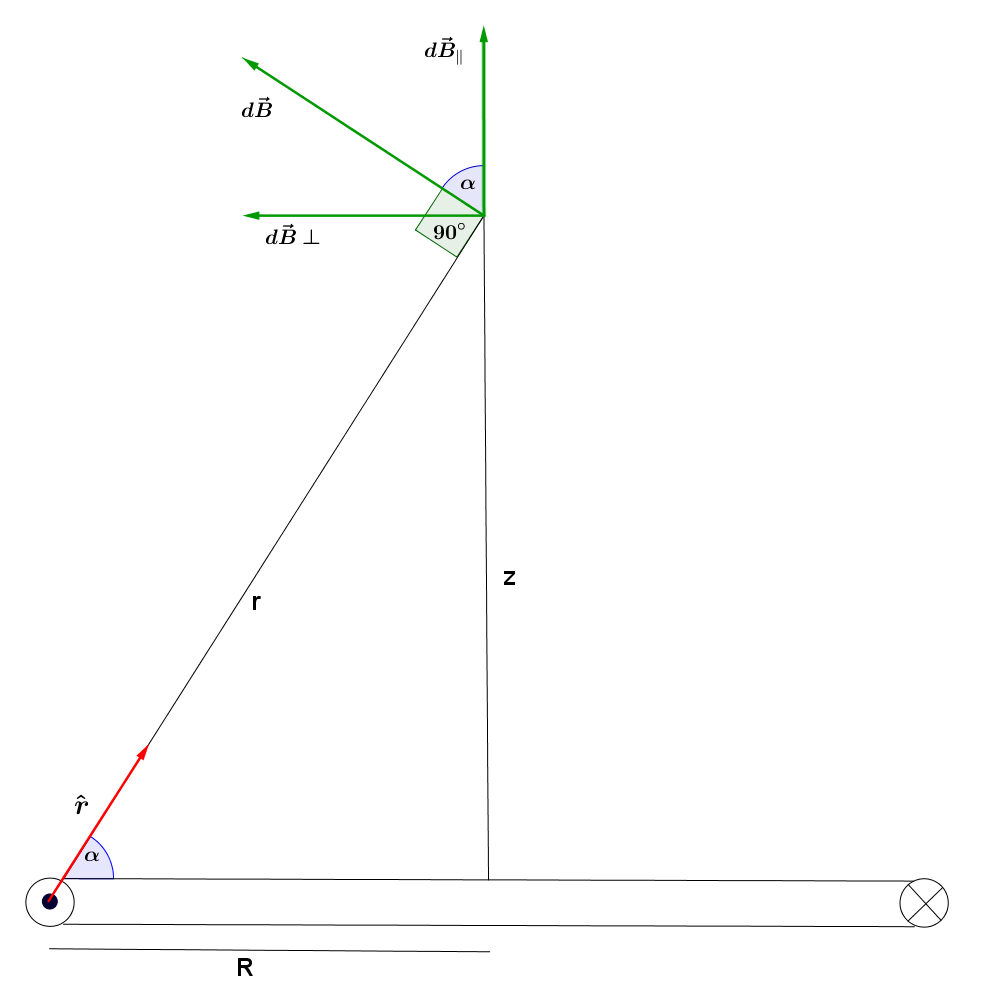
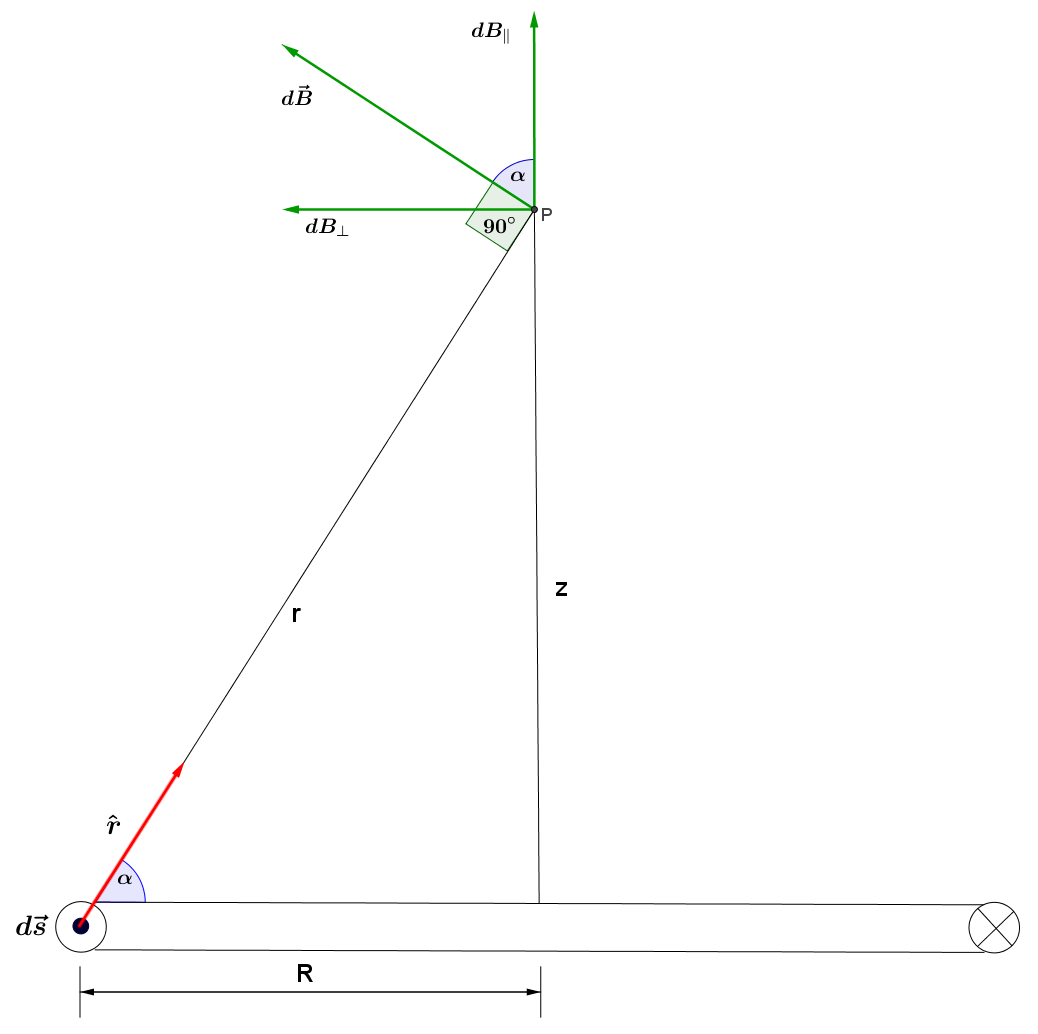
Første del af spoledesign sat ind

diff --git a/section/spoledesign.tex b/section/spoledesign.tex
@@ -2,92 +2,91 @@
 
 \subsection{Dimensionering af spoler}
 
-Systemet består af 3 spoler. 1 stor spole til at vidergive et signal, og 2 mindre spoler med samme areal til at opfange et signal. Dimensioneringen afhænger af størrelserne på spolerne. Der er nogle fysiske pladskrav, som begrænser dimensioneringen. Som udgangspunkt, dimensioneres den store spole først, som skal sende et signal videre. (omformuler blot udkast..)
+For at kunne dimensionere og designe en spole, er det væsentligt at vide hvilket formål spolen skal bruges til. Spolen har mange egenskaber, og i dette projekt vil de blive designet, så de kan bruges som sensorer. Altså en enhed der opfanger eller udsender et analogt signal. 
 
-Figur her!!
+Som beskrevet tidligere, består systemet af i alt 3 spoler. 1 stor spole, som skal stå for at udsende et signal. Herudover 2 mindre identiske spoler, som skal opfange signalerne. For et illustrativt billede af opsætningen se afsnit **.
+
+I den følgende tekst, vil der blive beskrevet hvilke faktorer der er blevet lagt vægt på, samt hvordan nogle af Maxwells ligninger er blevet brugt til at dimensionere de enkelte spoler. Herunder begreber som magnetfelt(B), flux$(\Phi)$, induktans(L) og elektromotorisk kraft som fremadrettet vil blive betegnet som EMF$(\xi)$. 
+
+Der er som udganspunkt taget brug af Biot-Savarts lov som ses i ligning \ref{eq:spole_biot_savart}, 
+
 
 \begin{figure}[h!]
 	\centering
 	\includegraphics[width=.6\textwidth]{billeder/B_felt.png}
-	\caption{test}
-	\label{fig:BiotSavart1}
+	\caption{Cirkulær leder med radius R}
+	\label{fig:spole_fig1}
 \end{figure}
 
+På figur \ref{fig:spole_fig1} ses et tværsnit af en cirkulær leder, hvori der løber en strøm kaldet $i$. Krydset indikerer at stømmen går ind i papiret, og prikken også kaldet spidsen af en pil, indikerer at strømmen går ud af papiret. Man kan også se på denne figur, som en spole med 1 vinding. Betragt punktet P på z aksen. I dette punkt ønskes et magnetfelts styrke bestemt, afhængig af positionen z. Som det ses er vinklen, uanset hvor på lederen man befinder sig, mellem $d\vec{s}$ og enhedsvektoren $\hat{r}$ altid $90\degree$ vinkeltret på hinanden.
+
+Med dette kan $d\vec{B}$ feltet tegnes ind, vha. Biot-Savarts lov, eller vha. højrehåndreglen. En mere overskuelig måde at se det på er, at krydsproduktet af 2 vektorer, er en vektor der står vinkeltret på begge. 
+$d\vec{B}$ kan nu deles op i 2 komposanter. En komposant $dB_\parallel$, som står parralelt på z axen og den cirkulære leder. Derudover også en komposant $dB_\perp$, som står vinkeltret på samme.
+
+Summen af alle de vinkeltrette komposanter går ud da $d\vec{s}\times d\vec{B}_\perp=0$, og tilbage står kun de parallelle komposanter $dB_\parallel$, hvilket resulterer i:
+
  \begin{align}
- 	&\vec{r'}=R(cos(\phi)\hat{i}+sin(\phi)\hat{j})
+ &B=\int dB_\parallel \label{eq:B_field}
  \end{align}
 
-\begin{align}
-	&id\vec{s}=i\frac{d\vec{r'}}{d\phi}=i R d\phi (-sin(\phi)\hat{i}+cos(\phi)\hat{j})
-\end{align}
-Stedvektor:
-\begin{align}
-	&\vec{r_p}=z\hat{k}
-\end{align}
+  
+  
+Betragt Biot-Savarts lov i ligning \ref{eq:spole_biot_savart}
 
-relativ stedvektor
 \begin{align}
-	&\vec{r}=\vec{r_p}-\vec{r'}=-R cos(\phi)\hat{i}-sin(\phi)\hat{j}+z\hat{k}
+&d\vec{B}=\frac{\mu_0}{4\pi} \frac{i d\vec{s} \times \hat{r}}{r^2}\label{eq:spole_biot_savart}
 \end{align}
 
-Biot-savarts lov:
+Fra figur \ref{fig:spole_fig1}, kan ligning \ref{eq:spole_biot_savart} skrives om til:
 \begin{align}
-	&d\vec{B}=\frac{\mu_0  i}{4\pi} \frac{d\vec{s} \times \hat{r}}{r^2}
+&dB=\frac{\mu_0}{4\pi} \frac{i ds\: sin(90\degree)}{r^2}\label{eq:spole_biot_savart2}
+\end{align}
+ Denne ligning giver udtryk for hvad det magnetiske felt er i en afstand $r$ fra $d\vec{s}$.
+ 
+Ud fra figur \ref{fig:spole_fig1}, kan et udtryk for $dB_\parallel$ også vises.
+
+ \begin{align}
+ 	&dB_\parallel=dB\: cos(\alpha)
+ \end{align}
+
+Hermed kan et samlet udtryk for $dB_\parallel$ gives: 
+
+\begin{align}
+&dB_\parallel=\frac{\mu_0 \:i\: cos(\alpha)\:ds}{4\:\pi\: r^2}
 \end{align}
 
+Da det er z der ønskes varieret, bliver et nyt udtryk nødt til at blive dannet, hvor z indgår. Betragt figur \ref{fig:spole_fig1} igen. Her ses, at $r$ og vinklen $\alpha$, er relateret til hinanden, og ved hjælp at Phytagoras, kan disse 2 udtryk findes:
+
+
 \begin{align}
-	&\hat{r}=\frac{\vec{r}}{r}
+&r=\sqrt{R^2+z^2}
 \end{align}
 
+og
+
 \begin{align}
-	&r= \mid \vec{r} \mid = \sqrt{R^2+z^2}=\mid \vec{r_p}-\vec{r'} \mid
+&cos(\alpha)=\frac{R}{r}=\frac{R}{\sqrt{R^2+z^2}}
 \end{align}
 
+Da $i, R$ og $z$ alle har samme værdi for alle $ds$ hele vejen rundt i den cirklære leder, kan man vha. integration summere op, på samme måde som deffineret i ligning \ref{eq:B_field}, og der fås dermed et udtryk for B:
 
 
-ganger igennem med ovenstående. (ligning?)
 
 \begin{align}
-	&d\vec{B}=\frac{\mu_0 i}{4\pi} \frac{d\vec{s} \times \vec{r}}{r^3}
+&B=\frac{\mu_0 \: i \: R}{4\pi(R^2+z^2)^\frac{3}{2}}\int ds
 \end{align}
 
-	
-\begin{align}
-	&d\vec{s}\times(\vec{r_p}-\vec{r'})=R d\phi (-sin(\phi)\hat{i}+cos(\phi)\hat{j})\times (-R cos(\phi)\hat{i}-sin(\phi)\hat{j}+z\hat{k})
-\end{align}	
-Som yderligere kan reduceres ned til:
+Grænseværdierne for $\int ds$ er den cirkulære leders omkreds.
 
 \begin{align}
-	R \phi (z cos(\phi)\hat{i}+z sin(\phi)\hat{j}+R\hat{k})
+&\int\limits_{0}^{2\pi R} ds = 2\pi R
 \end{align}
 
-\begin{align}
-	&d\vec{B}=\frac{\mu_0 i}{4\pi} \frac{d\vec{s}\times (\vec{r_p}-\vec{r'})}{(\sqrt{R^2+z^2})^2}=\frac{\mu_0 i}{4\pi} \frac{R \phi (z cos(\phi)\hat{i}+z sin(\phi)\hat{j}+R\hat{k})}{(R^2+z^2)^\frac{3}{2}}
-\end{align}
-
-
-Ud fra dette, kan x og y komposanterne af B feltet sættes til = 0. Dette bevises ud fra:
-\begin{align}
-	&\frac{\mu_0 R z}{4\pi} \int\limits_{0}^{2\pi}cos(\phi)d\phi = 0
-\end{align}
-
+Et endeligt udtryk for magnetfeltet $B(z)$ gives i ligning \ref{eq:Bz_field}.
 
 \begin{align}
-	&\frac{\mu_0 R z}{4\pi} \int\limits_{0}^{2\pi}sin(\phi)d\phi = 0
+	&B(z)=\frac{\mu_0 \: i \: R^2}{2(R^2+z^2)^\frac{3}{2}} \label{eq:Bz_field}
 \end{align}
-
-Herefter er der kun z komposanten tilbage:
-\begin{align}
-	&B=\frac{\mu_0 R z}{4\pi} \int\limits_{0}^{2\pi}d\phi
-\end{align}
-
-Og dermed et udtryk for B i en cirkel.... (ret tekst her samt alle andre steder ved udledning.):
-
-
-\begin{align}
-	&B=\frac{\mu_0 iR^2 2\pi}{2(R^2+z^2)^\frac{3}{2}}
-\end{align}
-
 
 
 
